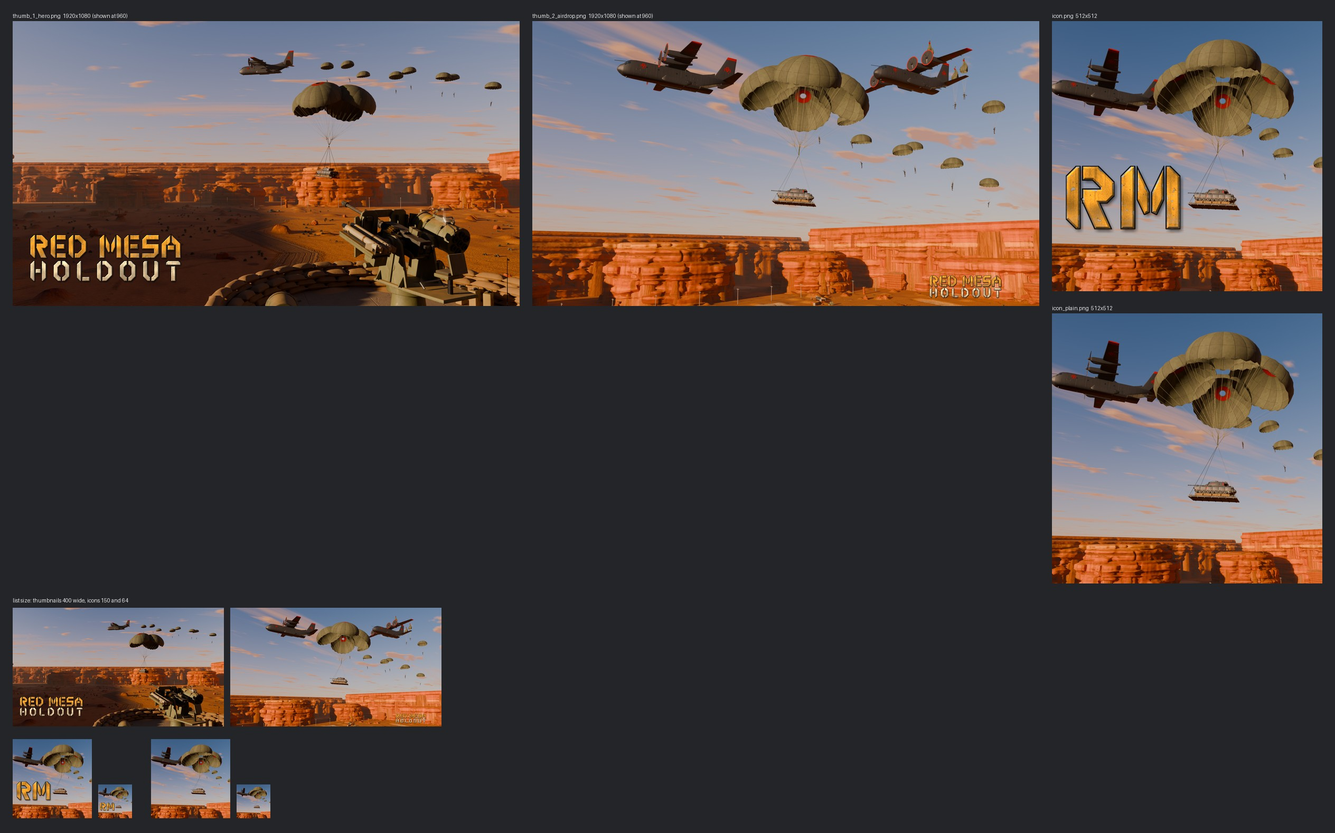
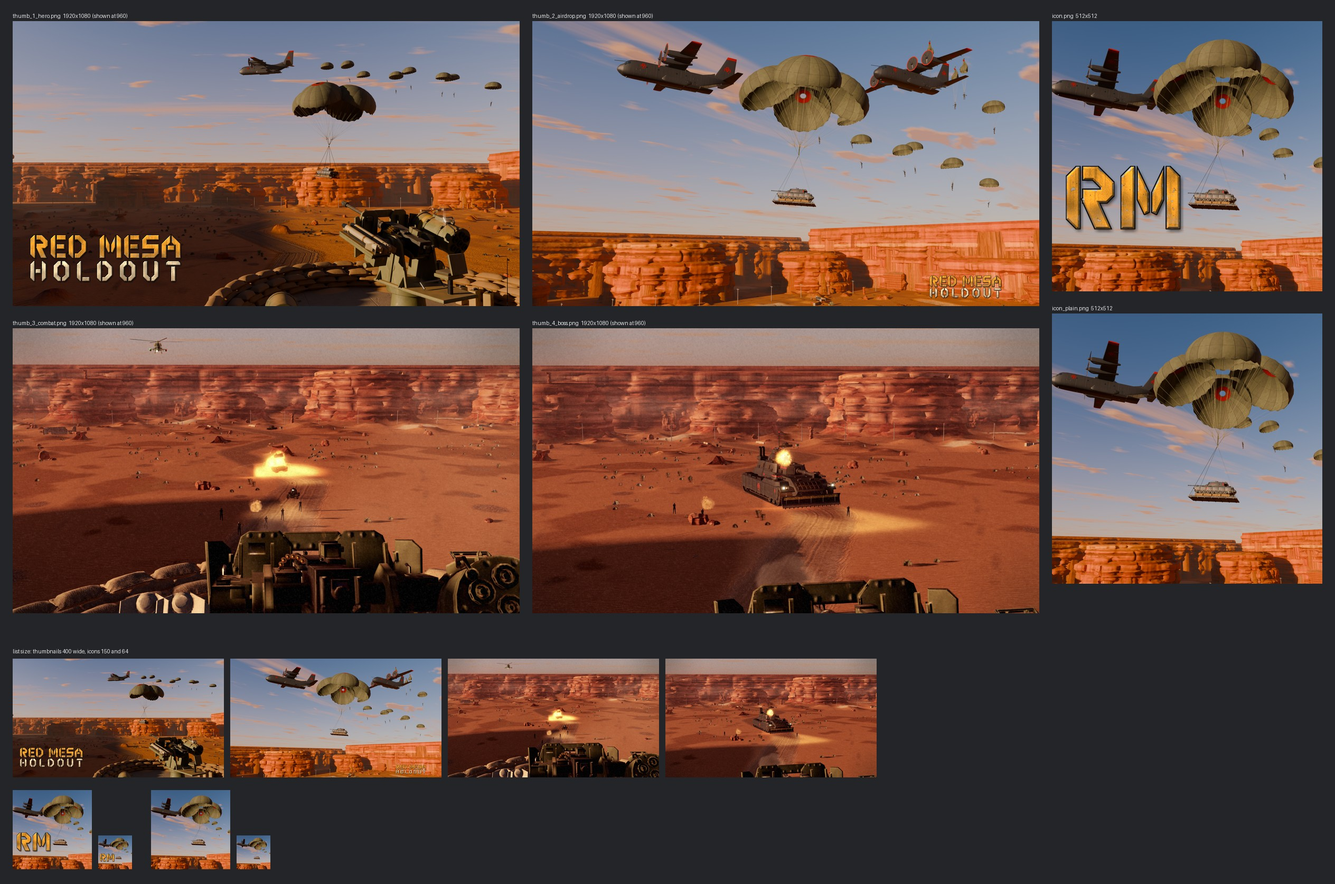
feat(look): LOOK-7 listing art, Studio part: combat thumbnail (real game at Sunset over the gun: rocket bursting on the tank, MG burst at the advancing infantry, buggy, helicopter) and boss thumbnail (Siege Crawler with escorts, rocket burst on its turret), both from the beauty rig stages fired thro

diff --git a/tools/ui/listing_capture.py b/tools/ui/listing_capture.py
@@ -53,6 +53,24 @@ def screen_points_width() -> int:
     raise SystemExit("no display size from system_profiler")
 
 
+def marker_box(mask: Image.Image) -> tuple[int, int, int, int] | None:
+    """The marker rectangle: the rows and columns that are mostly magenta
+    (stray magenta pixels elsewhere on screen don't count)."""
+    w, h = mask.size
+    data = mask.tobytes()
+    rows = [data[y * w:(y + 1) * w].count(255) for y in range(h)]
+    peak = max(rows)
+    if peak < 100:
+        return None
+    ys = [y for y, n in enumerate(rows) if n > peak * 0.9]
+    y0, y1 = ys[0], ys[-1] + 1
+    band = mask.crop((0, y0, w, y1)).rotate(90, expand=True).tobytes()  # columns as rows
+    cols = [band[x * (y1 - y0):(x + 1) * (y1 - y0)].count(255) for x in range(w)]
+    cols.reverse()  # rotate(90) is counter-clockwise: the last row is column 0
+    xs = [x for x, n in enumerate(cols) if n > (y1 - y0) * 0.9]
+    return (xs[0], y0, xs[-1] + 1, y1)
+
+
 def find_viewport() -> dict:
     FRAMES.mkdir(parents=True, exist_ok=True)
     (FRAMES / ".gitignore").write_text("*\n")
@@ -60,11 +78,12 @@ def find_viewport() -> dict:
     grab(shot)
     im = Image.open(shot).convert("RGB")
     r, g, b = im.split()
-    # Magenta: red and blue high, green low.
-    mask = Image.eval(r, lambda v: 255 if v > 235 else 0)
-    mask = Image.composite(mask, Image.new("L", im.size), Image.eval(g, lambda v: 255 if v < 25 else 0))
-    mask = Image.composite(mask, Image.new("L", im.size), Image.eval(b, lambda v: 255 if v > 235 else 0))
-    box = mask.getbbox()
+    # Magenta: red and blue high, green low (the display's colour management
+    # shifts pure 255,0,255 to about 231,56,249).
+    mask = Image.eval(r, lambda v: 255 if v > 200 else 0)
+    mask = Image.composite(mask, Image.new("L", im.size), Image.eval(g, lambda v: 255 if v < 100 else 0))
+    mask = Image.composite(mask, Image.new("L", im.size), Image.eval(b, lambda v: 255 if v > 200 else 0))
+    box = marker_box(mask)
     if not box:
         raise SystemExit("no magenta marker on screen: show the ListingMarker ScreenGui and bring Studio forward")
     # Screen points (the capture is at the display's backing scale).
@@ -101,8 +120,8 @@ def pick(name: str, index: int, top: float, tag: str) -> None:
     if band.size[0] < 1920:
         raise SystemExit(f"band {band.size} is under 1920 wide: enlarge the viewport")
     dst = SRC / f"{tag or name}_studio.png"
-    band.save(dst)
-    print(f"wrote {dst.relative_to(ROOT)} {band.size[0]}x{band.size[1]} (frame {index}, rows {y}..{y + bh})")
+    band.resize((1920, 1080), Image.BOX).save(dst)  # area average: no upscale, no ringing
+    print(f"wrote {dst.relative_to(ROOT)} 1920x1080 from {band.size[0]}x{band.size[1]} (frame {index}, rows {y}..{y + bh})")
 
 
 def main() -> int:

diff --git a/tools/ui/listing_compose.py b/tools/ui/listing_compose.py
@@ -7,8 +7,9 @@ assets/listing/src/ into assets/listing/: the 1920x1080 thumbnails, the
 Sources (see assets/listing/README.md):
   - src/{hero,airdrop,icon}_render.png: Blender, tools/ui/listing_scene.py
   - src/icon_rm.png: the logo's stencil, tools/ui/listing_letters.py
-  - src/{combat,storm,boss}_studio.png: the real game in Studio (16:9 crops
-    of the viewport at native resolution)
+  - src/{combat,boss}_studio.png: the real game in Studio (a 1899x1068
+    viewport grabbed at the display's native 3798x2136 by
+    tools/ui/listing_capture.py, area-downsampled to 1920x1080)
   - the logo: assets/ui/art/title_logo.png (tools/ui/title_logo.py)
 Only the logo (and the icon's "RM") is laid over the images; there is no
 other text. Pillow only (the QA venv).
@@ -34,8 +35,7 @@ THUMBS = [
     ("thumb_1_hero", "hero_render.png", (56, 800, 800)),
     ("thumb_2_airdrop", "airdrop_render.png", (1500, 960, 380)),
     ("thumb_3_combat", "combat_studio.png", None),
-    ("thumb_4_storm", "storm_studio.png", None),
-    ("thumb_5_boss", "boss_studio.png", None),
+    ("thumb_4_boss", "boss_studio.png", None),
 ]
 # The icon: source render, and the "RM" stencil (left, top, width at 512) or None.
 ICONS = [

diff --git a/tools/ui/listing_scene.py b/tools/ui/listing_scene.py
@@ -84,9 +84,9 @@ AIRBORNE = ("Lead_", "Wing_", "Trooper", "Cargo_")
 
 
 def airborne_shadows_off(sc):
-    """The drop casts no shadows: at the game's shadow range (a few hundred
-    studs from the camera) Roblox never draws a canopy's shadow on the far
-    canyon walls, where Cycles would lay dark blotches."""
+    """The drop casts no shadows: under the low sunset sun Cycles lays the
+    canopies' shadows as dark blotches on the far canyon walls (~1,000
+    studs from the camera), which read as dirt at thumbnail size."""
     import bpy
 
     n = 0

diff --git a/assets/listing/README.md b/assets/listing/README.md
@@ -1,0 +1,89 @@
+# Roblox listing art (LOOK-7)
+
+Thumbnails (1920×1080, 16:9, PNG) and the icon (512×512, PNG) for the Red
+Mesa Holdout experience page. Everything shows the game's own assets in
+situations the game produces. The only text is the game's logo: the full
+"RED MESA / HOLDOUT" on two thumbnails and its "RM" stencil on the icon.
+There is no Roblox branding and there are no third-party marks.
+Nothing here is uploaded; the lead sets the listing art when publishing.
+
+| File | What it shows | Source |
+|---|---|---|
+| `thumb_1_hero.png` | The key art: the emplacement at sunset over the strata basin, tracking an airdrop (a transport with its ramp open, a stick of eight troopers, a tank under four cargo chutes). Logo lower left. | Blender, `listing_scene.py --shot hero`: the LOOK-4 key-art camera and drop, re-rendered at 2880×1620 and area-averaged to 1920×1080. |
+| `thumb_2_airdrop.png` | A two-ship formation mid-drop over the basin: the lead's stick trailing behind it, the wing's first troopers leaving the ramp, a tank on its platform under the four-chute cluster; the lit right flank and far wall below. Small logo lower right. | Blender, `listing_scene.py --shot airdrop` (2880×1620 → 1920×1080). |
+| `thumb_3_combat.png` | The real game in Studio at Sunset, over the gun: a rocket bursting on the tank on the road, a machine-gun burst kicking up at the advancing infantry, the buggy and a helicopter. No HUD. | Studio capture (below). |
+| `thumb_4_boss.png` | The real game in Studio at Sunset: the Siege Crawler coming up the road with its escorts, a rocket bursting on its turret and a machine-gun burst in front, the gun's shield at the bottom. No HUD. | Studio capture (below). |
+| `icon.png` | The tank under its four canopies with the lead transport, the stick and the flank wall, and the logo's "RM" stencil over the sky. | Blender, `listing_scene.py --shot icon` (1536² → 1024² master → 512), `listing_letters.py` for the stencil. |
+| `icon_plain.png` | The same icon without the stencil (alternative). | as above |
+| `contact.jpg` | Every image at full size (thumbnails at half) and at list size: thumbnails 400 wide, icons at 150 and 64. | `listing_compose.py` |
+
+`src/` holds the inputs `listing_compose.py` builds the finals from: the
+Blender renders (`*_render.png`), the Studio grabs (`*_studio.png`, 1920×1080)
+and the stencil (`icon_rm.png`). `src/combat_alt_studio.png` is an unused
+alternative (the rocket's streak leaving the pod, MG muzzle flash, no
+explosion). `src/drafts/` and `src/frames/` are git-ignored scratch.
+
+There is no storm thumbnail; the optional fourth slot is the boss.
+
+## What is real
+
+- **Blender images** are built from the game's shipped assets by the
+  LOOK-4 key-art pipeline (`tools/ui/keyart_*.py`): the HS-4 emplacement,
+  ENV's landscape chunks with their baked maps, the terrain surface and all
+  1,965 placed parts captured from Studio (`assets/ui/art/src/`), ENV's
+  Sunset sky (the same OSL sky and sun as the game's preset), and the
+  airdrop assets (HS-6 transport with its ramp and cargo door open, CHAR's
+  skinned soldier in the Hang pose, the Parachute, ParachuteCargo and
+  DropPlatform, the enemy Tank).
+- **The drops follow the game's rules** (`src/shared/AirdropConfig.luau`):
+  transports at 250–350 studs, 90 studs/s, sticks 0.4 s apart with 1.1 s of
+  free fall, 17 studs/s under canopy; formations trail 2.5 s, 70 studs to
+  the side and 18 up; a tank hangs under four chutes tilted 29°. The flight
+  lines keep the 280-stud clearance from the outpost.
+- **Differences from a live frame**, all small: the renders are path traced
+  (softer shadows and bounce light than Roblox's), and in the airdrop
+  thumbnail and the icon the drop casts no shadows: at the low sunset sun
+  Cycles laid the canopies' shadows as dark blotches on the far canyon
+  wall, which read as dirt at thumbnail size. The hero keeps the key art
+  as shipped.
+
+## Studio captures (thumbnails 3 and 4)
+
+- The build under test was `90a9b45`: AD-4's boss retune, balance only,
+  and LOOK-6's film layer are both in. The shots use the beauty
+  rig's own staging (`RedMesaDebug "beauty"`, shots 2 and 6 at Sunset: the
+  frozen combat and boss stages from `src/shared/BeautyShots.luau`) at
+  QualityLevel 15.
+- The camera was a fixed free camera just above and behind the turret, a
+  little tighter than the player's turret camera: FOV 34, and FOV 27 for
+  the boss.
+- The weapons were fired through the Studio debug hooks
+  (`DebugYaw`/`DebugPitch`/`DebugWeapon`/`DebugFire`). That is the real
+  client and server weapon path: rockets, MG rounds, impacts and
+  explosions are the game's own effects.
+- The frames were picked from bursts of screen grabs taken during the
+  action.
+- The HUD ScreenGuis, Roblox's CoreGui and the top bar were hidden. The
+  game's film layer (grain and vignette) was kept: it is part of the
+  game's look.
+- The viewport was widened to 1899×1068, which is 16:9, and grabbed at the
+  display's native 3798×2136 by `tools/ui/listing_capture.py`. The grabs
+  were then area-downsampled to 1920×1080, so nothing was upscaled.
+- Studio was put back to the baseline afterwards: viewport 1177×1068, which
+  captures at 1190×1080.
+
+## Rebuild
+
+```bash
+tools/blender-lock.sh acquire look7
+B=/Applications/Blender.app/Contents/MacOS/Blender
+for s in hero airdrop icon; do
+  $B -b --factory-startup -P tools/ui/listing_scene.py -- --shot $s --sky   # sky plate (~10 s)
+  $B -b --factory-startup -P tools/ui/listing_scene.py -- --shot $s         # render (~1-4 min)
+done
+tools/blender-lock.sh release look7
+tools/ui/py.sh tools/ui/listing_letters.py     # src/icon_rm.png
+tools/qa/py tools/ui/listing_compose.py        # finals + contact.jpg
+```
+Studio grabs: see the docstring of `tools/ui/listing_capture.py` (find the
+viewport with a magenta marker, `burst`, then `pick <burst> <frame>`).
